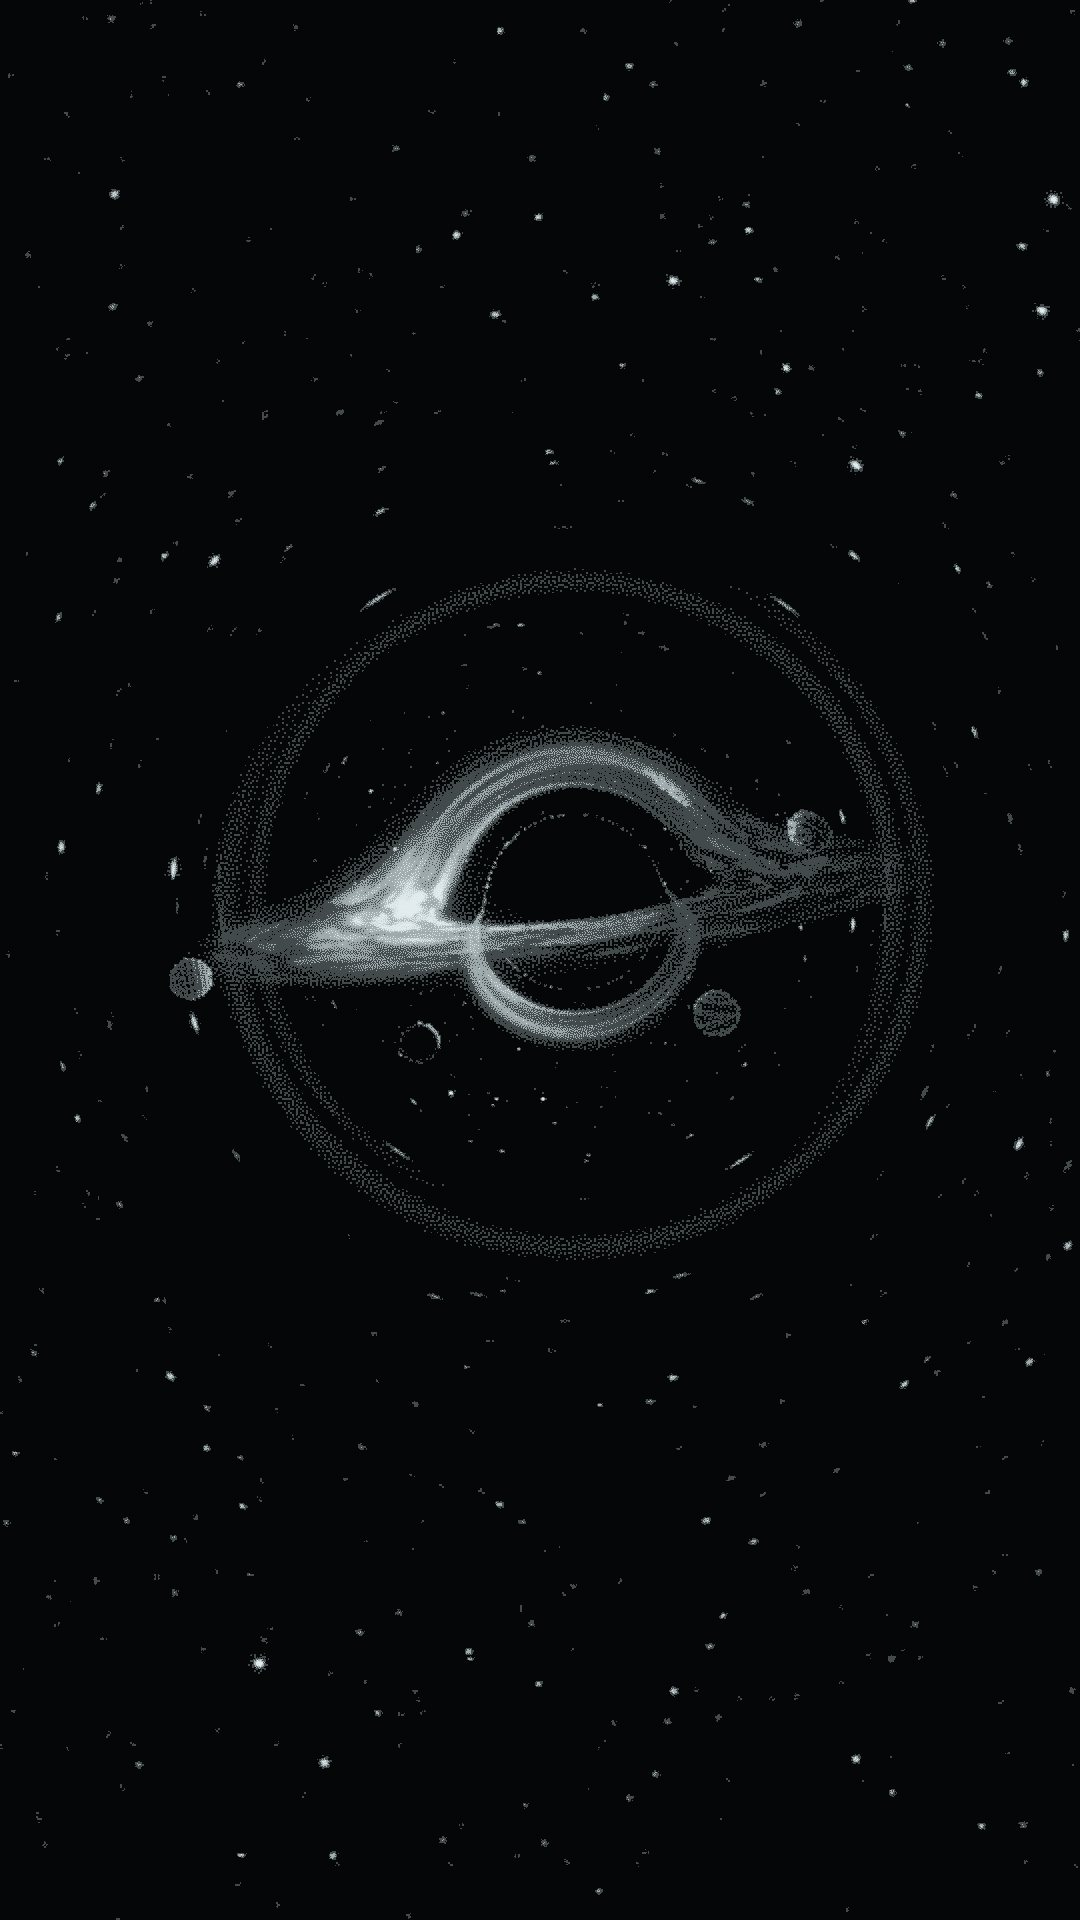
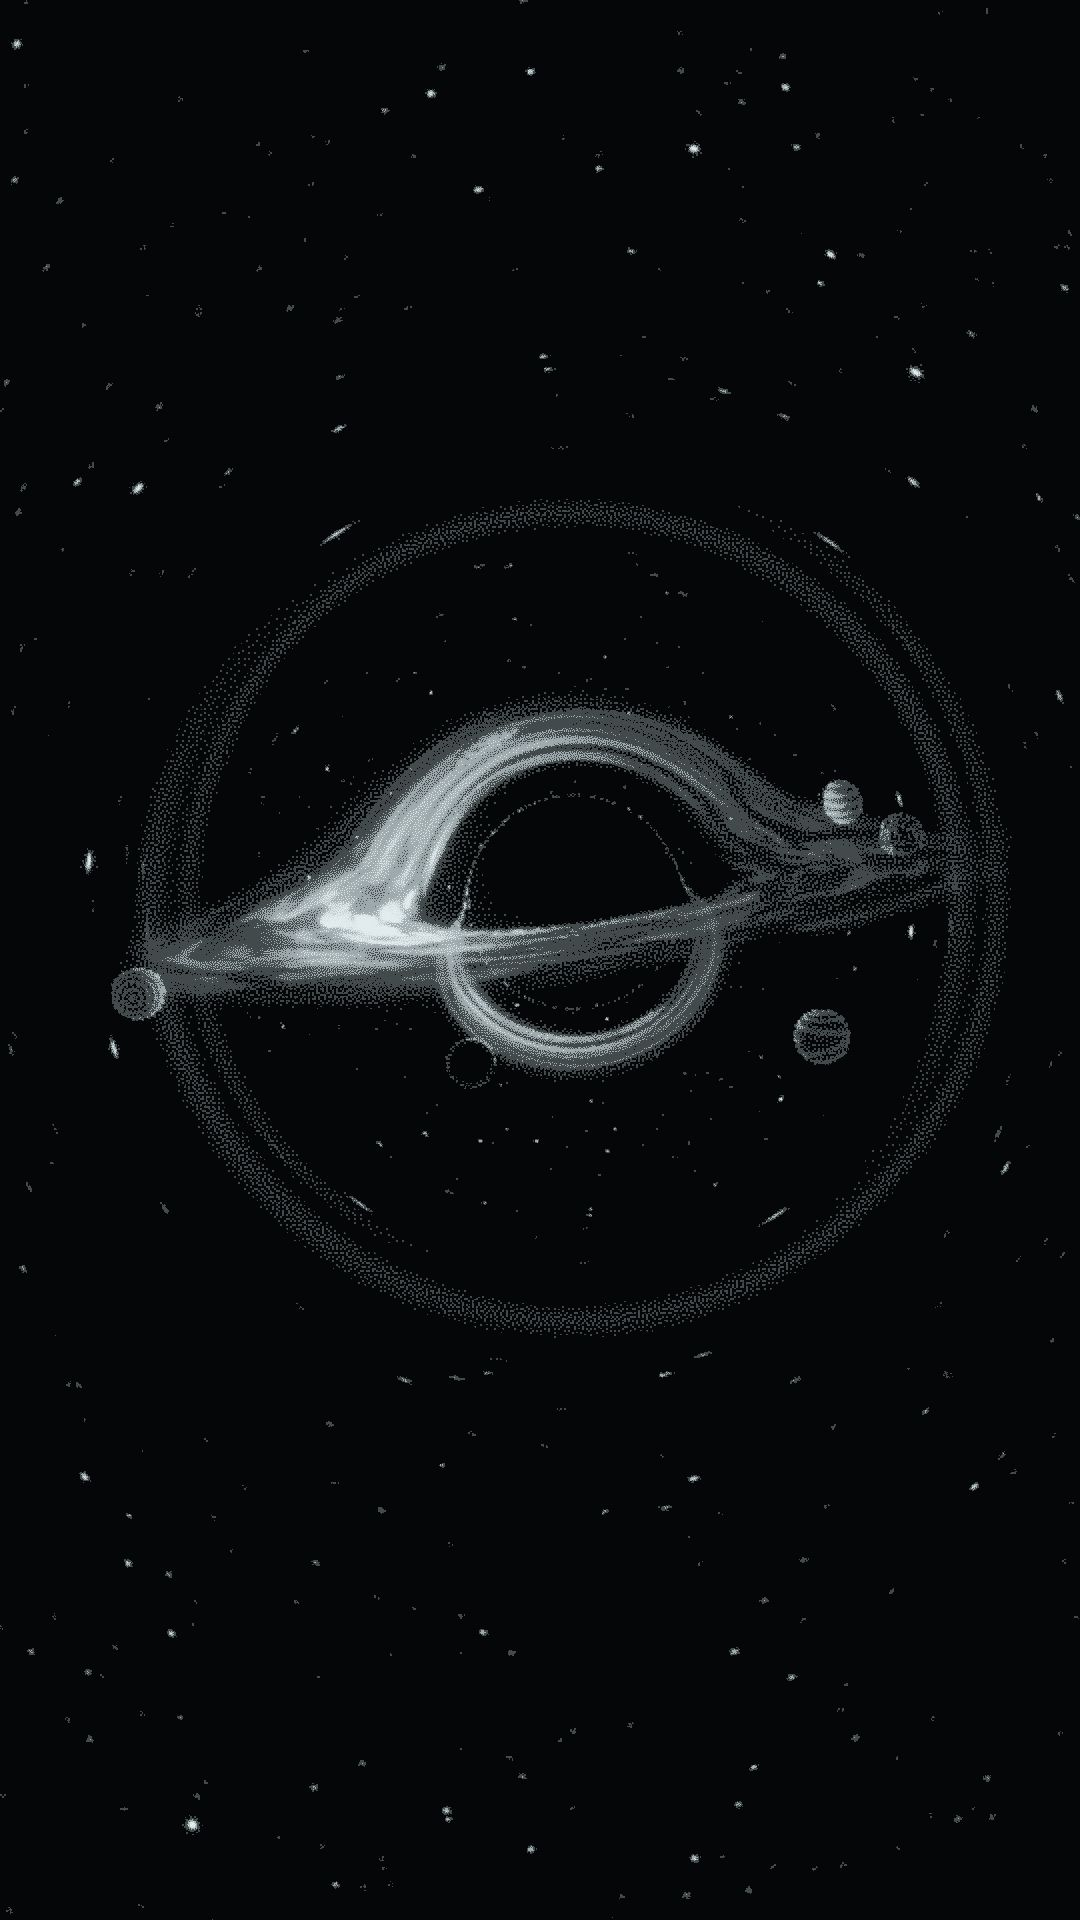
chore: vercel deploy config, capture script and SPA fallback shell
- vercel.json: SPA rewrite to a hero-less app.html shell, immutable
  caching for hashed assets, basic security headers
- scripts/capture.mjs (npm run capture): re-render the OG image and
  fallback stills via ?capture mode using on-demand Playwright CLI
- ?capture mode: forces WebGL, pins quality, no intro or cursor effects
- engines.node >= 22.18 for the type-stripping postbuild import

diff --git a/src/engine/Engine.ts b/src/engine/Engine.ts
@@ -23,6 +23,7 @@ import { activeBody, hoveredBody, isInteractive, isLocked, setHovered } from './
 import { projectNdc, solveImage, type View } from './lensing';
 import { projects } from '../content/projects';
 import { QualityController, initialLevel } from './quality';
+import { captureMode } from './capability';
 
 // Device pixel ratios above this don't buy the raymarch anything visible.
 const MAX_DPR = 2;
@@ -177,7 +178,8 @@ export class Engine {
   /** Advance and render one frame. Driven by the shared GSAP ticker. */
   frame = (_time: number, deltaMs: number): void => {
     if (this.paused) return;
-    this.quality.update(deltaMs, performance.now());
+    // Captures pin the top rung: a software renderer must not trigger a downgrade.
+    if (!captureMode) this.quality.update(deltaMs, performance.now());
     if (this.quality.wantsFallback && this.onFallback) {
       const cb = this.onFallback;
       this.onFallback = null;
@@ -234,7 +236,7 @@ export class Engine {
     this.camY += (this.targetY - this.camY) * kCam;
     this.lensX += (this.targetX - this.lensX) * kLens;
     this.lensY += (this.targetY - this.lensY) * kLens;
-    const massTarget = this.pointerActive ? pointer.mass * motion : 0;
+    const massTarget = this.pointerActive && !captureMode ? pointer.mass * motion : 0;
     this.lensMass += (massTarget - this.lensMass) * kCam;
 
     const slowTarget = activeBody() && rig.park === 0 ? 0.2 : 1;
@@ -244,7 +246,7 @@ export class Engine {
 
     // Camera: an orbit pose driven by the narrative (+ pointer parallax),
     // optionally blended toward a parked pose beside a body and turned to it.
-    const parallax = pointer.parallaxDeg * motion * (1 - rig.park);
+    const parallax = captureMode ? 0 : pointer.parallaxDeg * motion * (1 - rig.park);
     const elevationDeg = rig.elevationDeg + this.camY * parallax * 0.6;
     const pos = u.uCamPos.value;
     orbitPosition(

diff --git a/src/components/Stage.tsx b/src/components/Stage.tsx
@@ -2,7 +2,7 @@ import { useCallback, useEffect, useRef, useState } from 'react';
 import gsap from 'gsap';
 import { onTick, prefersReducedMotion } from '../loop/ticker';
 import { setEngine, setRenderMode, useRenderMode } from '../engine/engineStore';
-import { fallbackReason } from '../engine/capability';
+import { captureMode, fallbackReason } from '../engine/capability';
 import { useRoute } from '../app/router';
 import { IntroRing } from './IntroRing';
 
@@ -16,7 +16,7 @@ export function Stage() {
   const mode = useRenderMode();
   const route = useRoute();
   // The intro ring only ever plays on a first load of the home page.
-  const [intro, setIntro] = useState(() => route.name === 'home');
+  const [intro, setIntro] = useState(() => route.name === 'home' && !captureMode);
   const endIntro = useCallback(() => setIntro(false), []);
 
   useEffect(() => {
@@ -57,7 +57,8 @@ export function Stage() {
           setRenderMode('fallback');
         };
         setRenderMode('webgl');
-        gsap.to(canvas, { opacity: 1, duration: prefersReducedMotion ? 0 : 1.4, ease: 'power2.out' });
+        gsap.to(canvas, { opacity: 1, duration: prefersReducedMotion || captureMode ? 0 : 1.4, ease: 'power2.out' });
+        if (captureMode) document.documentElement.dataset.capture = captureMode;
 
         // Dev tooling is behind a static env check, so production builds drop
         // the import (and Tweakpane) entirely.

diff --git a/src/engine/capability.ts b/src/engine/capability.ts
@@ -7,7 +7,18 @@ interface ConnectionInfo {
 
 export type FallbackReason = 'forced' | 'save-data' | 'no-webgl2' | 'software-renderer' | 'no-float-targets';
 
+/**
+ * ?capture=og | still: used by scripts/capture.mjs to regenerate the OG image
+ * and fallback stills from the live renderer. Forces WebGL even on a software
+ * rasteriser (headless Chrome), pins quality, and skips the intro.
+ */
+export const captureMode: 'og' | 'still' | null = (() => {
+  const v = new URLSearchParams(window.location.search).get('capture');
+  return v === 'og' || v === 'still' ? v : null;
+})();
+
 export function fallbackReason(): FallbackReason | null {
+  if (captureMode) return null;
   if (new URLSearchParams(window.location.search).has('fallback')) return 'forced';
 
   const conn = (navigator as Navigator & { connection?: ConnectionInfo }).connection;

diff --git a/src/engine/quality.ts b/src/engine/quality.ts
@@ -100,6 +100,7 @@ export class QualityController {
 
 /** Where to start: phones and low-core machines begin a few rungs down. */
 export function initialLevel(): number {
+  if (new URLSearchParams(window.location.search).has('capture')) return 0;
   const coarse = window.matchMedia('(pointer: coarse)').matches;
   const cores = navigator.hardwareConcurrency || 4;
   if (coarse) return 2;

diff --git a/src/styles/index.css b/src/styles/index.css
@@ -513,6 +513,13 @@
   letter-spacing: 0.03em;
 }
 
+/* ?capture=still: the scene alone, for the fallback stills. */
+html[data-capture='still'] main,
+html[data-capture='still'] .frame,
+html[data-capture='still'] .annotations {
+  visibility: hidden;
+}
+
 /* ?debug */
 .debug-panel {
   position: fixed;
